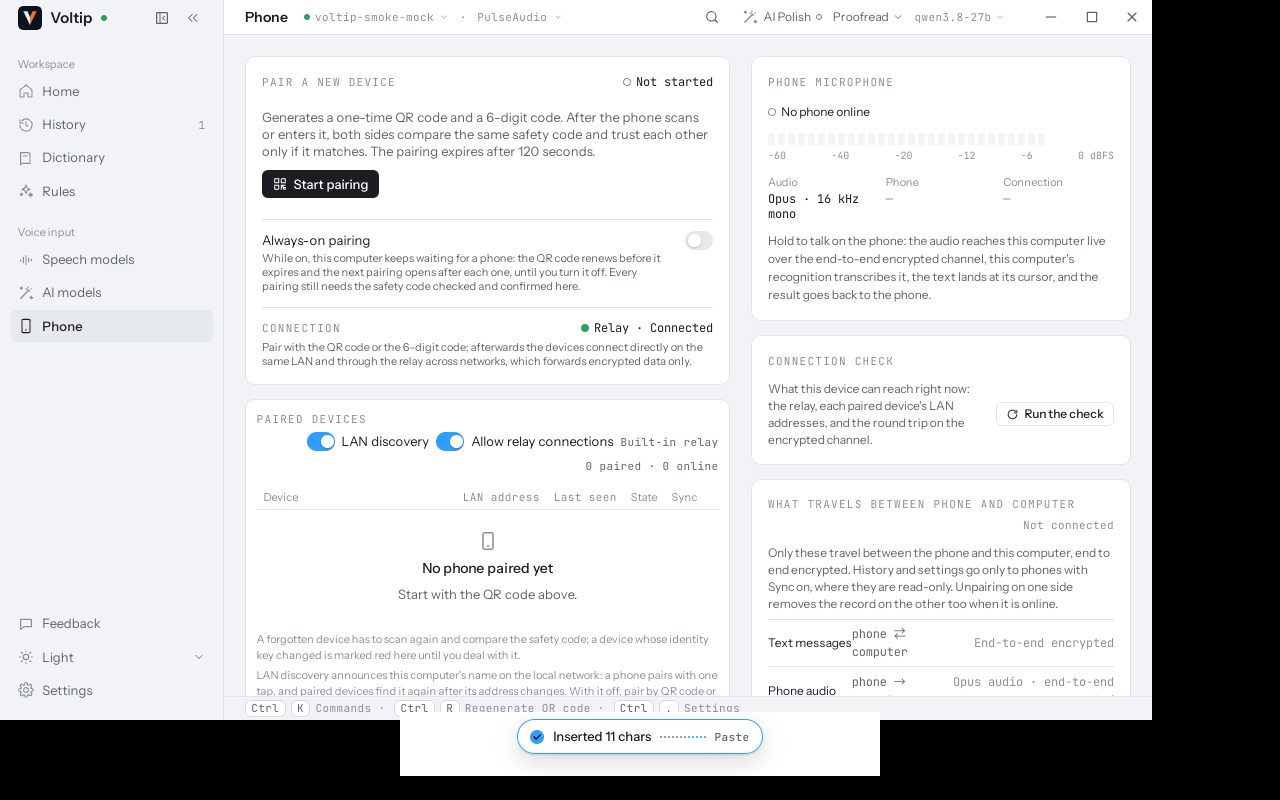
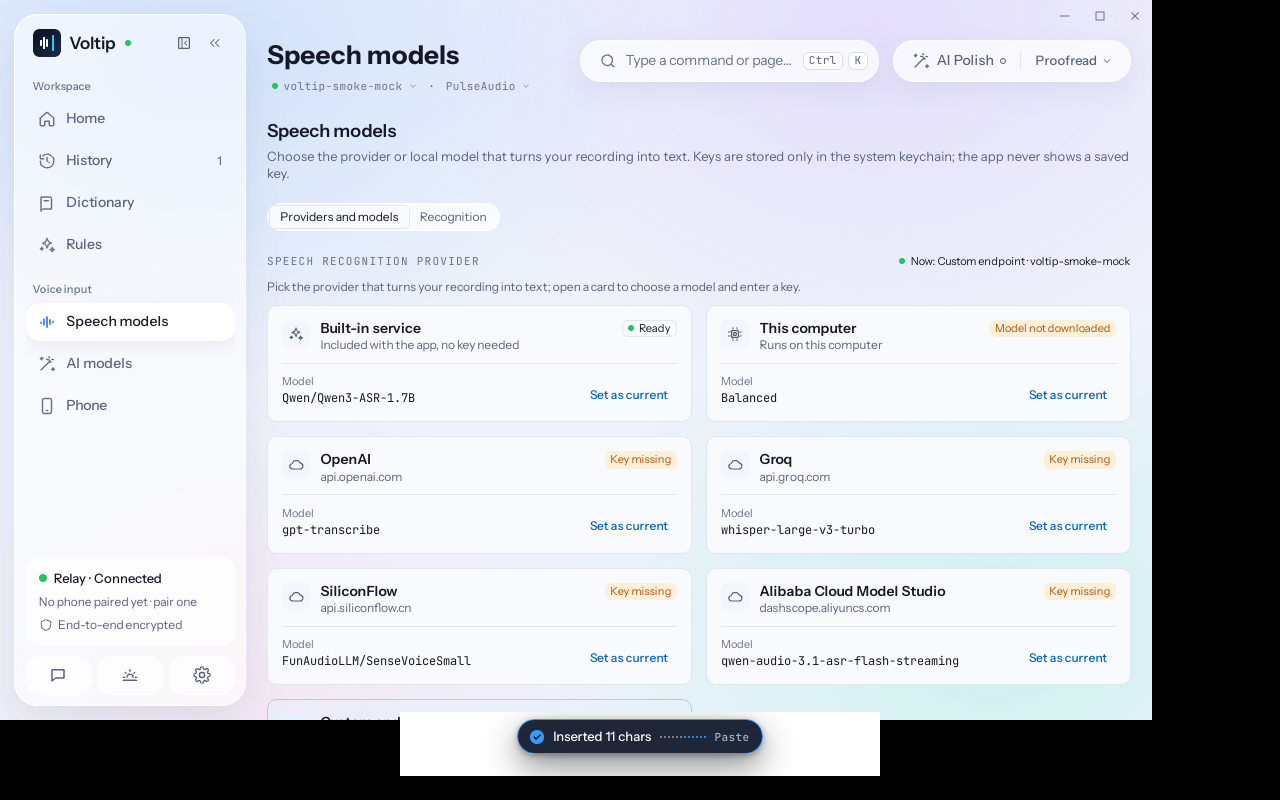
fix: 窄窗口的页头隐藏润色模型菜单，冒烟测试按新的默认主题启动

diff --git a/apps/desktop/src/shell/Shell.tsx b/apps/desktop/src/shell/Shell.tsx
@@ -103,15 +103,18 @@ export function PolishToggle({ className }: { className?: string }) {
           </>
         }
       />
-      <PolishModelMenu
-        align="end"
-        data-testid="polish-model"
-        className="hidden xl:inline-flex"
-        triggerClassName={cx(
-          "mono inline-flex h-9 max-w-[160px] min-w-0 items-center gap-1 rounded-pill px-2 text-[11px] transition-colors hover:bg-inset hover:text-fg",
-          on ? "text-fg-muted" : "text-fg-subtle",
-        )}
-      />
+      {/* Only where the window is wide enough (xl): the menu's own `inline-flex` would win over a
+          `hidden` beside it, so a wrapper hides it (1152 px window, 2026-10-11). */}
+      <span className="hidden xl:contents">
+        <PolishModelMenu
+          align="end"
+          data-testid="polish-model"
+          triggerClassName={cx(
+            "mono inline-flex h-9 max-w-[160px] min-w-0 items-center gap-1 rounded-pill px-2 text-[11px] transition-colors hover:bg-inset hover:text-fg",
+            on ? "text-fg-muted" : "text-fg-subtle",
+          )}
+        />
+      </span>
     </div>
   );
 }

diff --git a/apps/desktop/src/shell/Shell.test.tsx b/apps/desktop/src/shell/Shell.test.tsx
@@ -463,6 +463,14 @@ describe("Shell", () => {
       "AI 预设：校对",
       "AI 润色模型：qwen3.8-27b",
     ]);
+    // Regression (1152 px window, 2026-10-11): the polish model menu leaves the header below xl. A
+    // `hidden` on the menu itself lost to its own `inline-flex`, so a wrapper does the hiding.
+    const modelSlot = within(bar)
+      .getByTestId("polish-model")
+      .closest(String.raw`.xl\:contents`);
+    expect(modelSlot?.tagName).toBe("SPAN");
+    expect(modelSlot).toHaveClass("hidden");
+    expect(within(bar).getByTestId("polish-model").closest(".hidden")).toBe(modelSlot);
     // The command field names its shortcut in keycaps.
     expect(
       within(screen.getByTestId("title-bar-search")).getByLabelText("Ctrl K"),
